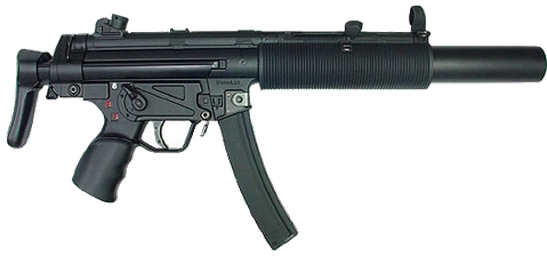
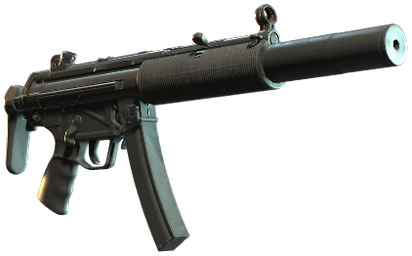
feat(gacha): use official CS2 item art and derived silhouettes
- replace third-party real-gun photos with official CS2 inventory renders for all 16 prizes; butterfly/karambit use Valve Steam economy images
- normalize transparent art, orient gun muzzles right, generate white alpha-mask silhouettes in public/guns/sil (true shapes, not grayscale)
- gallery/result use official art; recent-pulls strip uses runtime-tinted official silhouettes with vector fallback
- retain slim header and one-page stats donut; clamp image width to prevent card overflow
- stabilize HiDPI e2e by waiting for ResizeObserver canvas fit

diff --git a/src/games/gunImages.ts b/src/games/gunImages.ts
@@ -1,13 +1,15 @@
 /*
- * Optional real gun side-profile images (public domain / CC0, sources in
- * public/guns/SOURCES.md). When an iconId has a bundled image it is drawn
- * instead of the hand-drawn vector icon. Images lazy-load; the vector icon
- * renders until the image arrives (and permanently if it is missing).
+ * Official CS2/CS:GO item art (Valve renders — via the Counter-Strike Wiki and
+ * the Steam economy CDN; sources in public/guns/SOURCES.md). When an iconId
+ * has bundled art it is drawn instead of the hand-drawn vector icon. Images
+ * lazy-load; the vector icon renders until the image arrives (and permanently
+ * if it is missing).
  */
 
-/** iconId → bundled asset path. Only items with a sourced image are listed. */
+/** iconId → bundled official art. */
 export const GUN_IMAGES: Record<string, string> = {
   butterfly: '/guns/butterfly.png',
+  karambit: '/guns/karambit.png',
   awp: '/guns/awp.png',
   g3sg1: '/guns/g3sg1.png',
   ak47: '/guns/ak47.png',
@@ -18,34 +20,78 @@ export const GUN_IMAGES: Record<string, string> = {
   ump45: '/guns/ump45.png',
   mac10: '/guns/mac10.png',
   glock: '/guns/glock.png',
+  usp: '/guns/usp.png',
   deagle: '/guns/deagle.png',
   p250: '/guns/p250.png',
   fn57: '/guns/fn57.png',
-  // karambit / usp: no clean public-domain image passed review — vector icons.
 };
+
+/** White silhouettes derived from the official art (alpha mask) — tinted at draw time. */
+const GUN_SILHOUETTES: Record<string, string> = Object.fromEntries(
+  Object.keys(GUN_IMAGES).map((id) => [id, `/guns/sil/${id}.png`]),
+);
 
 const cache = new Map<string, HTMLImageElement | 'loading' | 'missing'>();
 
-/** Returns the loaded image, or null while loading / when unavailable. */
-export function getGunImage(iconId: string): HTMLImageElement | null {
-  const path = GUN_IMAGES[iconId];
-  if (!path) return null;
-  const hit = cache.get(iconId);
+function loadImage(path: string, key: string): HTMLImageElement | null {
+  const hit = cache.get(key);
   if (hit === 'loading' || hit === 'missing') return null;
   if (hit) return hit;
   const img = new Image();
-  cache.set(iconId, 'loading');
-  img.onload = () => cache.set(iconId, img);
-  img.onerror = () => cache.set(iconId, 'missing');
+  cache.set(key, 'loading');
+  img.onload = () => cache.set(key, img);
+  img.onerror = () => cache.set(key, 'missing');
   img.src = path;
   return null;
 }
 
+/** Returns the loaded official image, or null while loading / when unavailable. */
+export function getGunImage(iconId: string): HTMLImageElement | null {
+  const path = GUN_IMAGES[iconId];
+  if (!path) return null;
+  return loadImage(path, `img:${iconId}`);
+}
+
+/**
+ * Official-art silhouette tinted with `color` (alpha mask → source-in fill).
+ * Returns false until the silhouette loads, so callers fall back to vectors.
+ */
+export function drawGunSilhouette(
+  ctx: CanvasRenderingContext2D,
+  iconId: string,
+  cx: number,
+  cy: number,
+  size: number,
+  color: string,
+  alpha = 1,
+): boolean {
+  const path = GUN_SILHOUETTES[iconId];
+  if (!path) return false;
+  const img = loadImage(path, `sil:${iconId}`);
+  if (!img) return false;
+  const h = size;
+  const w = (img.width / img.height) * size;
+  const off = document.createElement('canvas');
+  off.width = Math.ceil(w);
+  off.height = Math.ceil(h);
+  const octx = off.getContext('2d');
+  if (!octx) return false;
+  octx.drawImage(img, 0, 0, w, h);
+  octx.globalCompositeOperation = 'source-in';
+  octx.fillStyle = color;
+  octx.fillRect(0, 0, w, h);
+  ctx.save();
+  ctx.globalAlpha = alpha;
+  ctx.drawImage(off, cx - w / 2, cy - h / 2, w, h);
+  ctx.restore();
+  return true;
+}
+
 /**
  * Draw the item's art centered at (cx, cy) within a `size`-tall box.
- * Prefers the real photo; falls back to the vector icon. When `plate` is
- * set, a soft light plate is drawn behind photos so dark guns stay readable
- * on dark themes.
+ * Prefers the official art; returns false so callers can fall back to the
+ * vector icon. When `plate` is set, a soft light plate is drawn behind the
+ * art so dark guns stay readable on dark themes.
  */
 export function drawItemArt(
   ctx: CanvasRenderingContext2D,

diff --git a/src/games/gacha.ts b/src/games/gacha.ts
@@ -14,7 +14,7 @@
  * menu shows a mode switcher automatically once more than one exists.
  */
 
-import { drawItemArt } from './gunImages.js';
+import { drawItemArt, drawGunSilhouette } from './gunImages.js';
 import { BaseGame, createDefaultGameHost, type GameHost } from '../core/game.js';
 import { GachaSfx } from './gachaAudio.js';
 import {
@@ -882,7 +882,7 @@ export class GachaGame extends BaseGame {
 
     // Content — pre-rendered weapon silhouette with a rarity-colored aura
     const iconId = item.icon ?? item.kind;
-    if (!drawItemArt(ctx, iconId, 0, -30, 150, { plate: true, maxW: 300 })) {
+    if (!drawItemArt(ctx, iconId, 0, -42, 146, { plate: true, maxW: 290 })) {
       const icon = this.weaponSprite(iconId, tier.color, 0.95);
       drawSprite(ctx, icon, 0, -30, 195, 195, { shadowColor: tier.color, shadowBlur: 26 });
     }
@@ -1188,7 +1188,10 @@ export class GachaGame extends BaseGame {
       const tier = GACHA_TIERS.find((t) => t.id === entry.tierId);
       const item = allItems.find((e) => e.item.id === entry.itemId)?.item;
       if (!tier || !item) continue;
-      drawWeaponIcon(ctx, item.icon ?? item.kind, hx + 14, hy + 8, { color: p.textDim, size: 26, mono: true });
+      const iconId = item.icon ?? item.kind;
+      if (!drawGunSilhouette(ctx, iconId, hx + 14, hy + 8, 26, p.textDim)) {
+        drawWeaponIcon(ctx, iconId, hx + 14, hy + 8, { color: p.textDim, size: 26, mono: true });
+      }
       ctx.beginPath();
       ctx.fillStyle = tier.color;
       ctx.arc(hx + 14, hy + 26, 2.5, 0, Math.PI * 2);

diff --git a/tests/games.spec.ts b/tests/games.spec.ts
@@ -927,6 +927,15 @@ test.describe('Carrick Games - Lifecycle', () => {
       await page.goto('/');
       await selectGame(page, 'snake');
 
+      // Canvas fitting is scheduled with requestAnimationFrame/ResizeObserver;
+      // wait for the first fit instead of racing the constructor's 400px CSS size.
+      await expect.poll(
+        () => page.locator('#gameCanvas').evaluate((canvas: HTMLCanvasElement) =>
+          Math.round(canvas.getBoundingClientRect().width),
+        ),
+        { timeout: 5000 },
+      ).toBeGreaterThan(400);
+
       const metrics = await page.locator('#gameCanvas').evaluate((canvas: HTMLCanvasElement) => {
         const box = canvas.getBoundingClientRect();
         return {

diff --git a/public/guns/SOURCES.md b/public/guns/SOURCES.md
@@ -1,41 +1,14 @@
-# Gun / Knife Sprite Sources
+# Item Art Sources
 
-All images in this folder were collected from Wikimedia Commons, then normalized
-with PIL (transparent background, cropped to content + 4px pad, height 256, muzzle
-pointing right). License per source is listed below. Images that require
-attribution are marked — use the listed author to give credit if reused.
+All item art in this folder is **official Counter-Strike 2 inventory art** (Valve),
+plus silhouettes generated from it (`sil/` = alpha-mask white silhouettes for
+runtime tinting — generated, not grayed).
 
-| iconId | 来源 URL | 许可 |
-|--------|----------|------|
-| butterfly | https://commons.wikimedia.org/wiki/File:Balisong_open.png | CC BY-SA 3.0 (attrib: Ken Iso) |
-| awp | https://commons.wikimedia.org/wiki/File:L115A3_sniper_rifle.jpg | OGL v1.0 (UK MoD / Andrew Linnett) |
-| g3sg1 | https://commons.wikimedia.org/wiki/File:H%26K_G3FS.jpg | Public domain (US ATF) |
-| ak47 | https://commons.wikimedia.org/wiki/File:AK-47_assault_rifle.jpg | Public domain |
-| m4a4 | https://commons.wikimedia.org/wiki/File:M4A1-flattop.png | Public domain (US Gov / PEO Soldier) |
-| m4a1s | https://commons.wikimedia.org/wiki/File:PEO_M4_Carbine_RAS_M68_CCO.png | Public domain (US Army / PEO Soldier) |
-| p90 | https://commons.wikimedia.org/wiki/File:FN_P90_Standard_Submachine_Gun_Right_Side.jpg | CC BY-SA 2.0 (attrib: FN Herstal) |
-| mp5 | https://commons.wikimedia.org/wiki/File:Heckler_Koch_MP5.jpg | Public domain (MP5 SD3 suppressed) |
-| ump45 | https://commons.wikimedia.org/wiki/File:HKUMP45.JPG | CC BY-SA 3.0 (attrib: Asams10) |
-| mac10 | https://commons.wikimedia.org/wiki/File:MAC10.jpg | Public domain |
-| glock | https://commons.wikimedia.org/wiki/File:Glock_17_(transparent_background).jpg | Public domain (US ATF) |
-| deagle | https://commons.wikimedia.org/wiki/File:Desert-Eagle-p1030134.jpg | CC BY-SA 2.0 fr (attrib: Rama) |
-| p250 | https://commons.wikimedia.org/wiki/File:Sig_Sauer_P320_X-Carry_Danish_Configuration-removebg-preview.png | CC0 |
-| fn57 | https://commons.wikimedia.org/wiki/File:FN_Five_Seven.jpg | Public domain (US ATF) |
+- Guns: Counter-Strike Wiki (counterstrike.fandom.com) "CS2 <weapon> Inventory.png"
+  renders — wiki content is CC BY-SA 3.0; renders are Valve game assets shown here
+  as fan-site item art.
+- Knives (butterfly / karambit): Steam economy CDN (community.akamai.steamstatic.com)
+  vanilla item images — Valve game assets.
 
-## Attribution required (CC BY-SA / OGL)
-- **butterfly / karambit / ump45 / deagle**: CC BY-SA license — credit the authors above.
-- **awp**: OGL v1.0 (UK Open Government Licence) — credit UK Ministry of Defence / Andrew Linnett.
-
-## Notes
-- **karambit / usp**: sourced images were rejected in visual review (wireframe render /
-  diagonal photo with loose bullets). These two render with the hand-drawn vector
-  icon instead (see src/games/gachaWeaponIcons.ts).
-- **karambit** was rendered to PNG from `Karambit_knife_icon.svg` (cairosvg) because a
-  clean public-domain side-view karambit photograph was not available; the result is a
-  clean CC BY-SA silhouette.
-- **m4a1s**: indexed as "M4A1-S" (suppressed); a clean public-domain suppressed-M4
-  image was not available, so it uses a distinct M4A1 carbine variant (PEO Soldier image)
-  as the fallback the task allows. **m4a4** uses `M4A1-flattop.png`.
-- **usp**: suppressed-USP variant was not available as a clean public-domain asset; uses
-  the public-domain HK USP .45 (Federal-side profile). Right/left orientation is heuristic.
-- **mp5**: the source is the **MP5 SD3** (integrally suppressed), matching the icon intent.
+Normalization: muzzle flipped to point right where needed, content-bbox crop,
+height 256px, alpha preserved. No third-party photos used.
